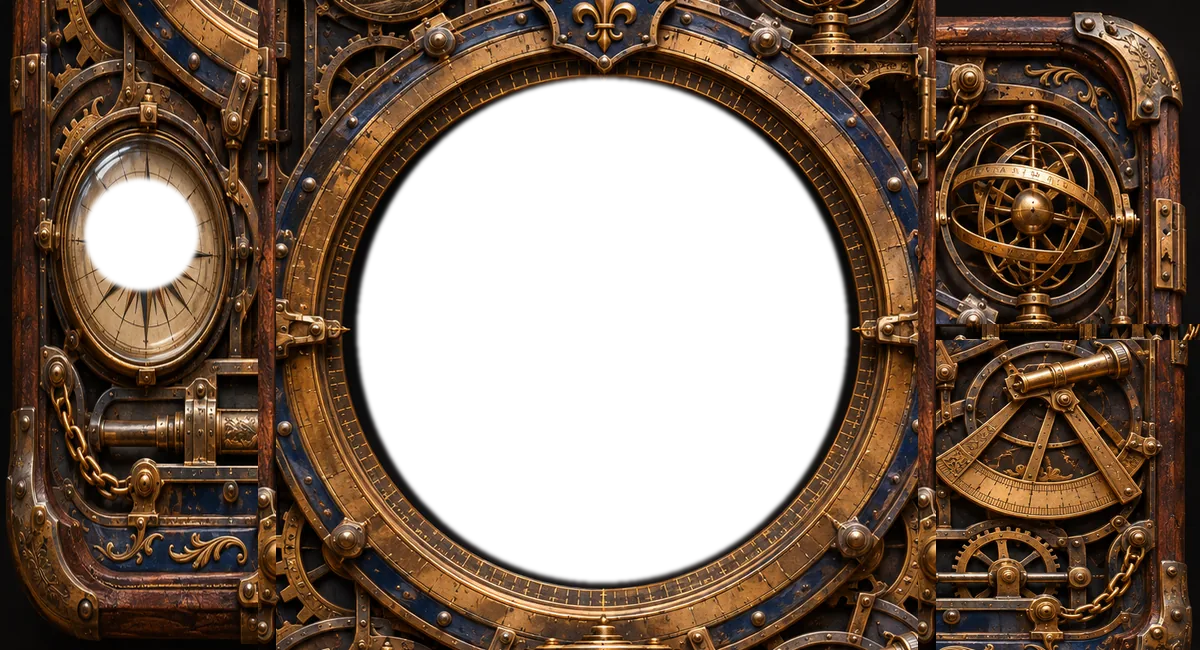
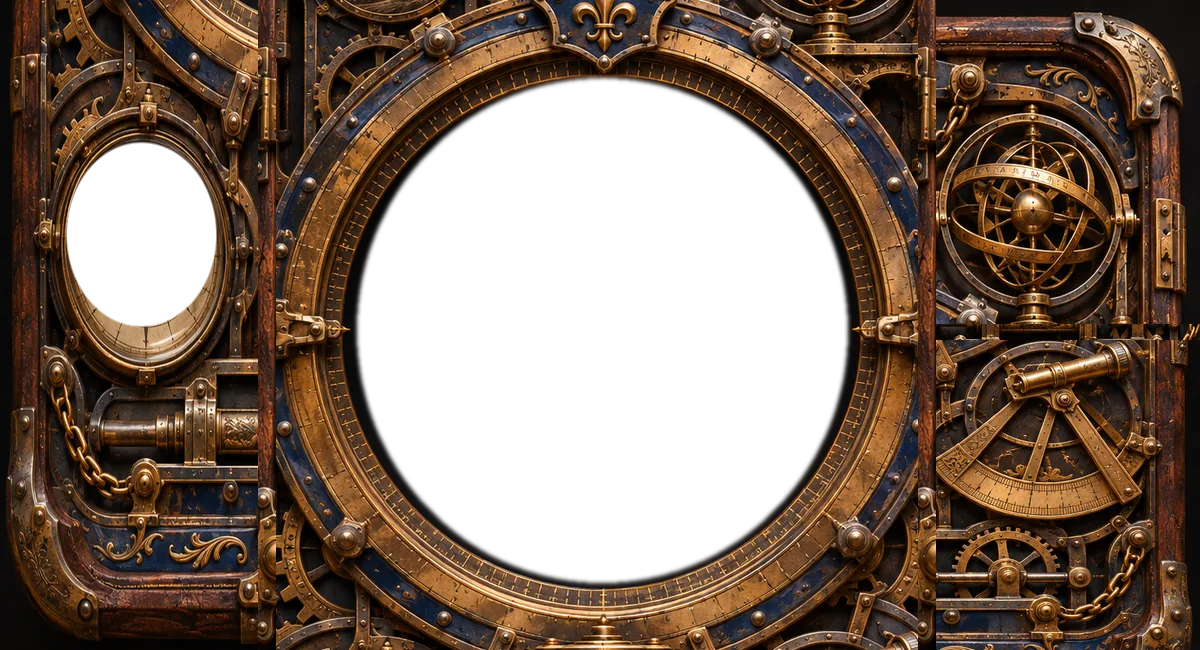
Align enlarged compass apertures and relative ellipse geometry with HUD artwork

Changed region(s): [[0.0308, 0.2154, 0.185, 0.5231]]

diff --git a/docs/index.html b/docs/index.html
@@ -7,7 +7,7 @@
   <meta name="description" content="An enchanted Renaissance instrument revealing forgotten symbols.">
   <title>Speculum Arcana</title>
   <link rel="icon" href="./assets/icon.svg" type="image/svg+xml">
-  <link rel="stylesheet" href="./styles.css?v=9.1.0">
+  <link rel="stylesheet" href="./styles.css?v=10.0.0">
   <link rel="manifest" href="./manifest.webmanifest">
   <script src="https://telegram.org/js/telegram-web-app.js"></script>
   <script src="https://cdn.jsdelivr.net/npm/mind-ar@1.2.5/dist/mindar-image.prod.js"></script>
@@ -40,8 +40,8 @@
           <span class="latch-clasp" aria-hidden="true"></span>
         </aside>
         <div class="instrument-picture">
-          <img id="portrait-instrument" class="scanner-instrument portrait-instrument" src="./assets/hud-portrait.webp" alt="" draggable="false">
-          <img id="landscape-instrument" class="scanner-instrument landscape-instrument" src="./assets/hud-landscape.webp" alt="" draggable="false">
+          <img id="portrait-instrument" class="scanner-instrument portrait-instrument" src="./assets/hud-portrait.webp?v=10.0.0" alt="" draggable="false">
+          <img id="landscape-instrument" class="scanner-instrument landscape-instrument" src="./assets/hud-landscape.webp?v=10.0.0" alt="" draggable="false">
         </div>
       </div>
     </div>
@@ -61,6 +61,6 @@
     <div class="camera-vignette" aria-hidden="true"></div>
     <div id="sr-status" class="visually-hidden" role="status" aria-live="polite"></div>
   </main>
-  <script type="module" src="./ar-app.js?v=9.1.0"></script>
+  <script type="module" src="./ar-app.js?v=10.0.0"></script>
 </body>
 </html>

diff --git a/docs/instrument-layout.js b/docs/instrument-layout.js
@@ -19,7 +19,8 @@ export function calculateInstrumentLayout(viewportWidth, viewportHeight, aspectR
     compass: {
       centerX: geometry.compass.centerX,
       centerY: geometry.compass.centerY,
-      diameter: geometry.compass.diameter
+      diameter: geometry.compass.diameter,
+      aspectRatio: geometry.compass.aspectRatio
     }
   };
 }
@@ -112,6 +113,7 @@ export class InstrumentLayout {
     this.stage.style.setProperty("--compass-center-x", percent(layout.compass.centerX));
     this.stage.style.setProperty("--compass-center-y", percent(layout.compass.centerY));
     this.stage.style.setProperty("--compass-diameter", percent(layout.compass.diameter));
+    this.stage.style.setProperty("--compass-aspect-ratio", layout.compass.aspectRatio.toFixed(8));
     this.frameElement.hidden = false;
 
     const viewportSignature = width.toFixed(2) + "x" + height.toFixed(2);

diff --git a/docs/styles.css b/docs/styles.css
@@ -100,7 +100,7 @@ a-scene canvas { display: block; }
   left: var(--compass-center-x, 21.998%);
   top: var(--compass-center-y, 74.043%);
   width: var(--compass-diameter, 18.6%);
-  aspect-ratio: 1;
+  aspect-ratio: var(--compass-aspect-ratio, 1);
   transform: translate(-50%, -50%);
   border-radius: 50%;
   overflow: hidden;
@@ -113,6 +113,7 @@ a-scene canvas { display: block; }
   inset: 0;
   overflow: hidden;
   border-radius: 50%;
+  background: radial-gradient(ellipse at 45% 34%, #284a78 0%, #142e51 64%, #071626 100%);
 }
 .compass-rotor {
   position: absolute;
@@ -130,7 +131,7 @@ a-scene canvas { display: block; }
   display: block;
   width: 100%;
   height: 100%;
-  object-fit: contain;
+  object-fit: fill;
   user-select: none;
   -webkit-user-drag: none;
 }

diff --git a/docs/app-config.js b/docs/app-config.js
@@ -32,7 +32,8 @@ function parseRelativeInstrument(config) {
         compass: {
           centerX: requireNumber(source?.compass?.centerX, 0, 1, prefix + ".compass.centerX"),
           centerY: requireNumber(source?.compass?.centerY, 0, 1, prefix + ".compass.centerY"),
-          diameter: requireNumber(source?.compass?.diameter, 0.01, 1, prefix + ".compass.diameter")
+          diameter: requireNumber(source?.compass?.diameter, 0.01, 1, prefix + ".compass.diameter"),
+          aspectRatio: requireNumber(source?.compass?.aspectRatio, 0.4, 2, prefix + ".compass.aspectRatio")
         }
       };
     }

diff --git a/docs/ar-app.js b/docs/ar-app.js
@@ -2,7 +2,7 @@ import { loadAppSettings } from "./app-config.js?v=7.1.0";
 import { NorthCompass } from "./north-compass.js?v=7.1.0";
 import { loadTargets } from "./target-manifest.js?v=3.0.0";
 import { TargetCompiler } from "./target-compiler.js?v=3.0.0";
-import { InstrumentLayout } from "./instrument-layout.js?v=9.0.0";
+import { InstrumentLayout } from "./instrument-layout.js?v=10.0.0";
 import { InstrumentArtwork } from "./instrument-artwork.js?v=7.0.0";
 import { ImmersiveFullscreen } from "./immersive-fullscreen.js?v=6.0.0";
 

diff --git a/docs/ADMIN.md b/docs/ADMIN.md
@@ -126,3 +126,14 @@ This replaces the earlier pixel-coordinate specifications documented above.
 ## Unified rotating compass face (9.1)
 
 Both the rose and blue enamel disc are now a single centered rotor inside the compass viewport, rather than a rose enlarged independently above a stationary blue backing. The photographic HUD remains fixed while the full rotor turns under the glass overlay. The CSS rotor is exactly 100% of the compass housing in both axes, with no offsets or overflow scaling. Compass calibration uses normalized coordinates derived from each photographic asset's transparent aperture: portrait center (207/941, 1238/1672) and landscape center (141/1200, 234/650). Diameters include a small overlap underneath the stationary brass lip to avoid visible seams. These numbers live only as relative proportions in `settings.json` and scale with the same frame as the artwork.
+
+## Calibrated compass apertures v10
+
+The **WebP alpha masks were expanded** rather than merely enlarging the rose layer. They are geometric apertures with anti-aliased edges, verified to within ±1 native source-image pixel.
+
+| Artwork | Native dimensions | Compass centre (px) | Aperture radius (px) | Config centre | Config diameter | Aspect ratio |
+| --- | --- | --- | --- | --- | --- | --- |
+| portrait | 941 × 1672 | (207, 1238) | (124, 124) | (207/941, 1238/1672) | 248/941 | 1 |
+| landscape | 1200 × 650 | (141, 234) | (75, 92) | (141/1200, 234/650) | 150/1200 | 75/92 |
+
+The photographed brass rim stays intact immediately outside each new transparent aperture. `instrument-layout.js` places the rotor as percentages of the same image frame that renders the WebP, so the position and scale remain correct through fullscreen and rotation. `compass.aspectRatio` controls the elliptical landscape aperture without resizing the whole HUD. The blue enamel backing also fills the stationary casing under the glass so the rose cannot reveal gaps as it turns. Calibration can still be adjusted in `docs/config/settings.json`, without editing JavaScript.

diff --git a/README.md b/README.md
@@ -139,3 +139,7 @@ Landscape mode preserves the complete frame with `object-fit: contain`, rather t
 ### Compass calibration v8.1
 
 Adjusted the wind-rose position against the physical brass rings instead of the off-center transparent cutout. Increased dial scale and added regression tests for portrait/landscape positioning. The photographic assets and camera recognition are unchanged.
+
+## Compass apertures v10
+
+Photographic HUD images have physically enlarged transparent compass apertures: portrait centre (207, 1238), radius 124 px in 941 × 1672 art; landscape centre (141, 234), elliptical radii 75 × 92 px in 1200 × 650 art. The relative compass config now includes an `aspectRatio` per orientation. Both the HUD and compass remain co-scaled during rotation, with the blue enamel background filling the entire lens.
